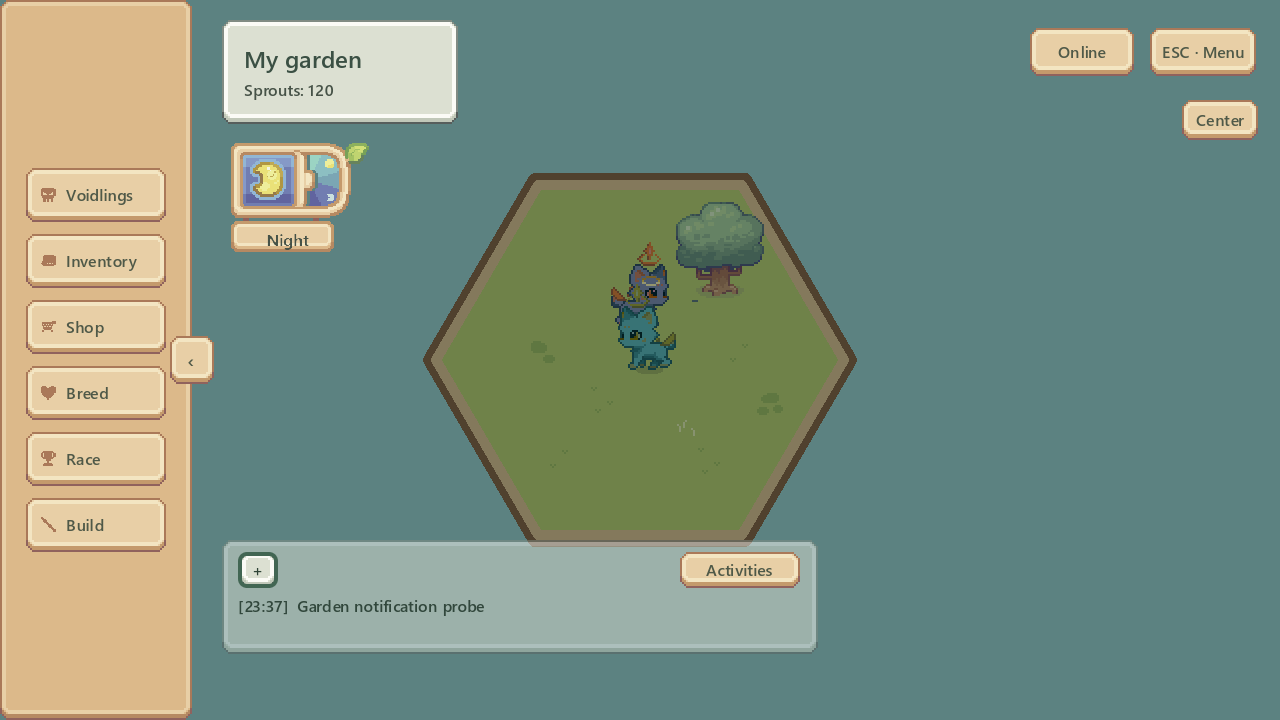
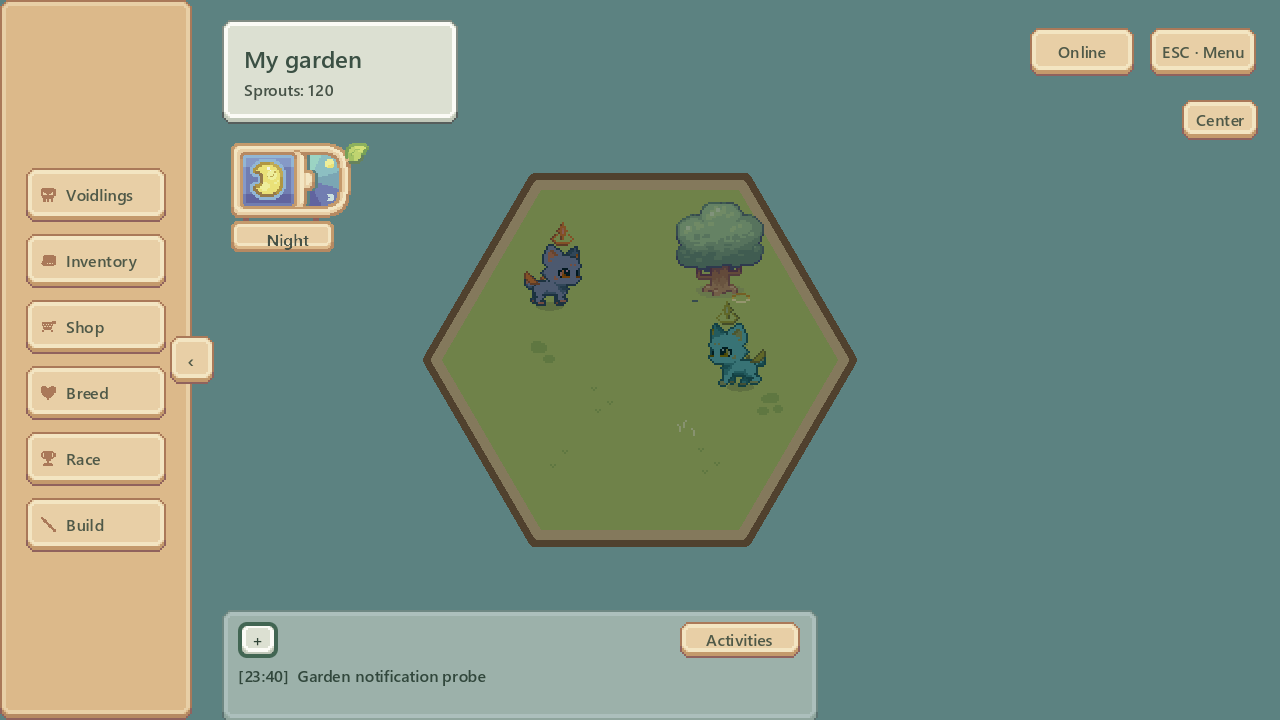
Keep compact Garden log bottom anchored

Changed region(s): [[0.1562, 0.7333, 0.6562, 1.0], [0.4062, 0.3056, 0.5938, 0.55]]

diff --git a/Scripts/UI/MainController.GardenUiSmoke.cs b/Scripts/UI/MainController.GardenUiSmoke.cs
@@ -79,16 +79,19 @@ public partial class MainController
                 throw new InvalidOperationException("A later notification was incorrectly suppressed.");
 
             var logToggle = FindGardenButton(_gardenEventLog, "ToggleHeight");
+            var logBottom = _gardenEventLog.Position.Y + _gardenEventLog.Size.Y;
             await ClickGardenControl(logToggle);
             await ToSignal(GetTree().CreateTimer(0.25), SceneTreeTimer.SignalName.Timeout);
             if (!_gardenEventLog.IsCompact || Mathf.Abs(_gardenEventLog.Size.Y - 45) > 1 || history.Size.Y > 25 ||
                 !history.GetParsedText().Contains(notification, StringComparison.Ordinal) ||
-                history.GetParsedText().Trim().Contains('\n') || !logToggle.HasFocus())
+                history.GetParsedText().Trim().Contains('\n') ||
+                Mathf.Abs(_gardenEventLog.Position.Y + _gardenEventLog.Size.Y - logBottom) > 1 || !logToggle.HasFocus())
                 throw new InvalidOperationException("Garden log did not collapse to one readable line.");
             await CaptureGardenUi("garden-log-compact");
             await ClickGardenControl(logToggle);
             await ToSignal(GetTree().CreateTimer(0.25), SceneTreeTimer.SignalName.Timeout);
-            if (_gardenEventLog.IsCompact || Mathf.Abs(_gardenEventLog.Size.Y - 80) > 1)
+            if (_gardenEventLog.IsCompact || Mathf.Abs(_gardenEventLog.Size.Y - 80) > 1 ||
+                Mathf.Abs(_gardenEventLog.Position.Y + _gardenEventLog.Size.Y - logBottom) > 1)
                 throw new InvalidOperationException("Garden log did not expand again.");
 
             await ClickGardenControl(_rosterButton);

diff --git a/Scripts/Presentation/UI/Garden/GardenEventLog.cs b/Scripts/Presentation/UI/Garden/GardenEventLog.cs
@@ -22,11 +22,13 @@ public partial class GardenEventLog : Control
     private RichTextLabel _history = null!;
     private Button _heightToggle = null!;
     private Tween? _heightTween;
+    private float _bottom;
     private int _nextActionId;
     public bool IsCompact { get; private set; }
 
     public override void _Ready()
     {
+        _bottom = Position.Y + Size.Y;
         MouseFilter = MouseFilterEnum.Pass;
 
         var panel = UiFactory.CreatePanel(Vector2.Zero);
@@ -88,8 +90,10 @@ public partial class GardenEventLog : Control
         _history.ScrollActive = !IsCompact;
         RefreshText();
         _heightTween?.Kill();
-        _heightTween = CreateTween().SetTrans(Tween.TransitionType.Cubic).SetEase(Tween.EaseType.Out);
-        _heightTween.TweenProperty(this, "size:y", IsCompact ? CompactHeight : ExpandedHeight, 0.18);
+        var height = IsCompact ? CompactHeight : ExpandedHeight;
+        _heightTween = CreateTween().SetParallel().SetTrans(Tween.TransitionType.Cubic).SetEase(Tween.EaseType.Out);
+        _heightTween.TweenProperty(this, "position:y", _bottom - height, 0.18);
+        _heightTween.TweenProperty(this, "size:y", height, 0.18);
     }
 
     public void Append(string message)

diff --git a/docs/UI_UX_IMPLEMENTATION_PLAN.md b/docs/UI_UX_IMPLEMENTATION_PLAN.md
@@ -95,7 +95,7 @@ Add `--voidling-garden-ui-shots` with a graphical renderer to capture the review
 - Added a premium weather-sheet sun/moon display below My garden, following the same local clock as Garden lighting (dawn, day, dusk, night).
 - Removed the floating notification line. Toast-only notices now reach the Garden log, while matching toast/event notifications within one deferred batch produce one entry.
 - Added a 0.22-second sliding rail toggle centered on the rail edge. When the rail closes, the Garden name/sprouts, day/night dial, and Garden log stay visible and slide left into the freed space; the centered expand arrow remains on the left edge. Hidden navigation leaves keyboard traversal, and repeated clicks can reverse the slide.
-- Removed the redundant “Garden log” heading, reduced the log panel artwork to 50% opacity, and added a keyboard-accessible top-left toggle that animates between the full history and a one-line view.
+- Removed the redundant “Garden log” heading, reduced the log panel artwork to 50% opacity, and added a keyboard-accessible top-left toggle that animates between the full history and a one-line view while keeping the panel against the bottom edge.
 - Extended the Garden smoke check with clock boundaries, collapse/expand and interrupted animation, keyboard access, and notification deduplication. All 236 tests and the CI-equivalent local checks passed; graphical review passed at 1280×720.
 
 Review captures: [expanded](ui-overhaul/garden-refined.png), [collapsed navigation](ui-overhaul/garden-collapsed.png), [one-line log](ui-overhaul/garden-log-compact.png). Garden remains the active playtest gate before Shop implementation.
